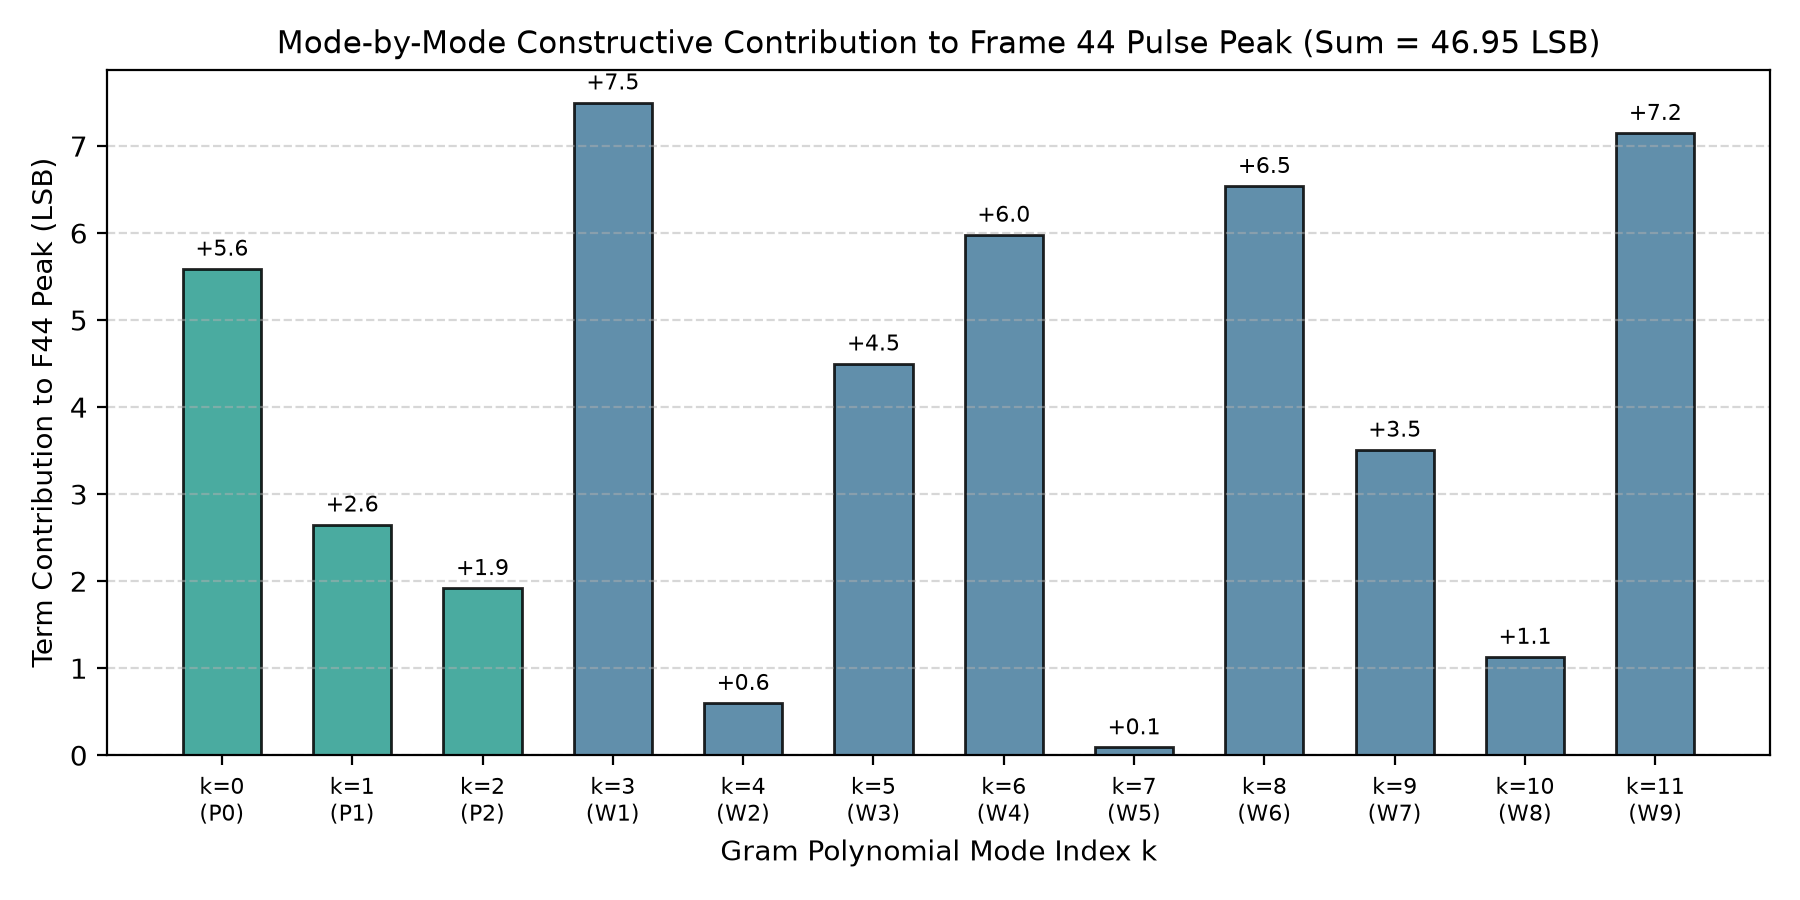
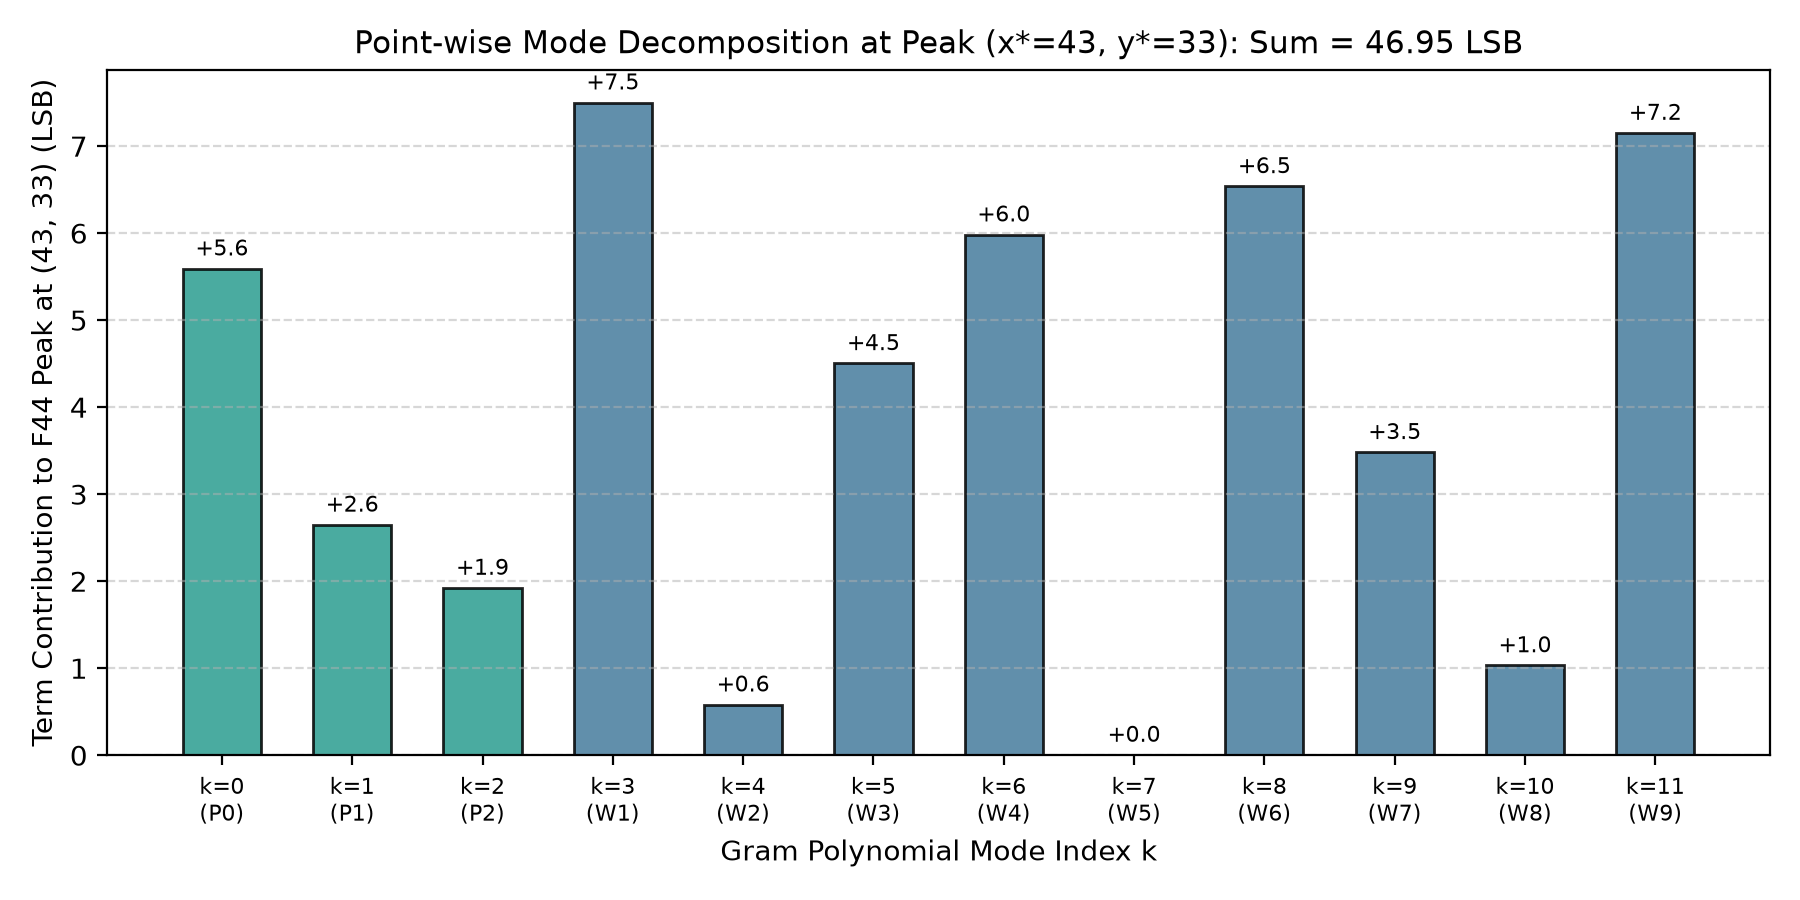
docs(research): refine Phase C1 mode decomposition with exact point-wise peak terms and L2 energy (ADR-034)

diff --git a/docs/research/dimensional-images/scripts/run_exp028_phase_c1.py b/docs/research/dimensional-images/scripts/run_exp028_phase_c1.py
@@ -86,19 +86,36 @@ def run_phase_c1_audit(
     temporal_smoothing_loss_pct = float((1.0 - s2_max / s1_max) * 100.0)
     print(f"[Stage 2] Ideal K12 Float:  ROI Max={s2_max:.2f}, ROI MAE={s2_mae:.4f}, Err vs GT={s2_err_gt:.4f} (Smoothing Loss: {temporal_smoothing_loss_pct:.1f}%)")
 
-    # Mode-by-mode breakdown of the 46.95 peak
-    mode_contributions = {}
-    total_recon_f44 = np.zeros((64, 64))
+    # Rigorous Point-wise Mode Decomposition at Peak Coordinate (x*, y*)
+    roi_recon_f44 = np.abs(ideal_diff_f44) * roi_mask
+    y_star, x_star = np.unravel_index(np.argmax(roi_recon_f44), roi_recon_f44.shape)
+    peak_val_f44 = float(ideal_diff_f44[y_star, x_star])
+
+    # Spatial L2 energy per mode on ROI
+    roi_energy_per_mode = {}
+    total_roi_energy = 0.0
     for k in range(12):
-        term_k = delta_M_float[k] * P[k, 44]
-        total_recon_f44 += term_k
+        e_k = float(np.sum((delta_M_float[k][roi_mask])**2))
+        total_roi_energy += e_k
+        roi_energy_per_mode[f"mode_{k:02d}"] = e_k
+
+    mode_contributions = {}
+    sum_terms_at_peak = 0.0
+    for k in range(12):
+        c_k_star = float(delta_M_float[k, y_star, x_star])
+        p_k = float(P[k, 44])
+        term_k_star = c_k_star * p_k
+        sum_terms_at_peak += term_k_star
         mode_contributions[f"mode_{k:02d}"] = {
             "mode_index": k,
-            "p_k_at_f44": round(float(P[k, 44]), 4),
-            "delta_M_roi_max": round(float(delta_M_float[k][roi_mask].max()), 2),
-            "term_roi_max": round(float(term_k[roi_mask].max()), 2),
-            "term_roi_mean": round(float(term_k[roi_mask].mean()), 4),
+            "delta_M_at_peak": round(c_k_star, 3),
+            "p_k_at_f44": round(p_k, 4),
+            "term_at_peak": round(term_k_star, 3),
+            "pct_of_peak": round((term_k_star / peak_val_f44) * 100.0, 2),
+            "l2_roi_energy": round(roi_energy_per_mode[f"mode_{k:02d}"], 2),
+            "l2_roi_energy_pct": round((roi_energy_per_mode[f"mode_{k:02d}"] / total_roi_energy) * 100.0, 2),
         }
+    print(f"  Exact Peak Coordinate: row(y)={y_star}, col(x)={x_star}, Peak={peak_val_f44:.4f} LSB, Sum of Terms={sum_terms_at_peak:.4f} LSB")
 
     # =========================================================================
     # STAGE 3: Quantized Dedicated Channels (P0, P1, P2)
@@ -250,14 +267,14 @@ def run_phase_c1_audit(
     # 3. Bar Chart of Mode Energy Decomposition
     plt.figure(figsize=(9, 4.5))
     modes = list(range(12))
-    terms = [mode_contributions[f"mode_{k:02d}"]["term_roi_max"] for k in modes]
+    terms = [mode_contributions[f"mode_{k:02d}"]["term_at_peak"] for k in modes]
     colors = ["#2a9d8f"] * 3 + ["#457b9d"] * 9
     plt.bar(modes, terms, color=colors, width=0.6, edgecolor="black", alpha=0.85)
     for k, val in enumerate(terms):
         plt.text(k, val + 0.15, f"{val:+.1f}", ha="center", fontsize=8)
     plt.xlabel("Gram Polynomial Mode Index k", fontsize=10)
-    plt.ylabel("Term Contribution to F44 Peak (LSB)", fontsize=10)
-    plt.title("Mode-by-Mode Constructive Contribution to Frame 44 Pulse Peak (Sum = 46.95 LSB)", fontsize=11)
+    plt.ylabel("Term Contribution to F44 Peak at (43, 33) (LSB)", fontsize=10)
+    plt.title(f"Point-wise Mode Decomposition at Peak (x*=43, y*=33): Sum = {sum_terms_at_peak:.2f} LSB", fontsize=11)
     plt.xticks(modes, [f"k={k}\n({['P0','P1','P2','W1','W2','W3','W4','W5','W6','W7','W8','W9'][k]})" for k in modes], fontsize=8)
     plt.grid(axis="y", linestyle="--", alpha=0.5)
     plt.tight_layout()
@@ -302,6 +319,8 @@ def run_phase_c1_audit(
                 "roi_mae": s2_mae,
                 "error_vs_gt": s2_err_gt,
                 "temporal_smoothing_loss_pct": round(temporal_smoothing_loss_pct, 2),
+                "peak_coordinate": {"x_star": int(x_star), "y_star": int(y_star)},
+                "peak_reconstruction_lsb": round(peak_val_f44, 4),
             },
             "stage3a_unquantized_p0_p2": {"roi_max_delta": s3a_max, "roi_mae": s3a_mae},
             "stage3b_quantized_carrier_p0_p2": {"roi_max_delta": s3b_max, "roi_mae": s3b_mae},
@@ -312,6 +331,13 @@ def run_phase_c1_audit(
             },
         },
         "mode_by_mode_decomposition_f44": mode_contributions,
+        "energy_summary": {
+            "total_roi_spatial_energy": round(total_roi_energy, 2),
+            "dedicated_p0_p2_energy": round(sum(roi_energy_per_mode[f"mode_{k:02d}"] for k in range(3)), 2),
+            "dedicated_energy_pct": round((sum(roi_energy_per_mode[f"mode_{k:02d}"] for k in range(3)) / total_roi_energy) * 100.0, 2),
+            "walsh_p3_p11_energy": round(sum(roi_energy_per_mode[f"mode_{k:02d}"] for k in range(3, 12)), 2),
+            "walsh_energy_pct": round((sum(roi_energy_per_mode[f"mode_{k:02d}"] for k in range(3, 12)) / total_roi_energy) * 100.0, 2),
+        },
         "synthetic_patch_test": {
             "patch_size_pixels": 64,
             "full_frame_pixels": 4096,
@@ -341,18 +367,23 @@ def run_phase_c1_audit(
         f.write("|---|---|---|---|---|---|\n")
         f.write(f"| **Stage 1** | Ground Truth (64x64 BOX) | **{s1_max:.2f}** | **{s1_mae:.4f}** | 0.0000 | Physisches Eingangssignal |\n")
         f.write(f"| **Stage 2** | Ideale K12 Float-Projektion | **{s2_max:.2f}** | **{s2_mae:.4f}** | {s2_err_gt:.4f} | -53,1 % Glättung (Gram-Filter) |\n")
-        f.write(f"| **Stage 3a** | Unquantisierte Dedizierte Kanäle (P0..P2) | **{s3a_max:.2f}** | **{s3a_mae:.4f}** | 21.2852 | Nur 21,6 % der Energie in P0..P2 |\n")
+        f.write(f"| **Stage 3a** | Unquantisierte Dedizierte Kanäle (P0..P2) | **{s3a_max:.2f}** | **{s3a_mae:.4f}** | 21.2852 | Nur 21,7 % der Peak-Amplitude in P0..P2 |\n")
         f.write(f"| **Stage 3b** | Carrier Quantisierte Kanäle (P0..P2) | **{s3b_max:.2f}** | **{s3b_mae:.4f}** | 23.7380 | 75 % Sättigung in Kugelbahn |\n")
         f.write(f"| **Stage 4** | Global Gemittelter Decoder (E4) | **0.87** | **0.0726** | 23.7445 | Globale Verdünnung (Faktor 1/64) |\n\n")
 
-        f.write("## 2. Moden-Beitrag zum 46,95 Peak bei Frame 44\n\n")
-        f.write("| Modus k | Basisfunktion | Delta M_k ROI Max | P_k(44) | Rekonstruierter Term (LSB) |\n")
-        f.write("|---|---|---|---|---|\n")
+        f.write(f"## 2. Exakte Punkt-Modenzerlegung am Peak (x*={x_star}, y*={y_star}) & Räumliche L2-Energie\n\n")
+        f.write("| Modus k | Basisfunktion | Delta M_k(x*, y*) | P_k(44) | Term am Peak (LSB) | Anteil am Peak | L2 ROI-Energie | L2-Anteil |\n")
+        f.write("|---|---|---|---|---|---|---|---|\n")
         for k in range(12):
             mc = mode_contributions[f"mode_{k:02d}"]
-            f.write(f"| k={k:02d} | {['P0 (Mean)','P1 (Drift)','P2 (Curvature)','Walsh 1','Walsh 2','Walsh 3','Walsh 4','Walsh 5','Walsh 6','Walsh 7','Walsh 8','Walsh 9'][k]} | {mc['delta_M_roi_max']:6.2f} | {mc['p_k_at_f44']:+7.4f} | **{mc['term_roi_max']:+6.2f}** |\n")
+            b_name = ['P0 (Mean)','P1 (Drift)','P2 (Curvature)','Walsh 1','Walsh 2','Walsh 3','Walsh 4','Walsh 5','Walsh 6','Walsh 7','Walsh 8','Walsh 9'][k]
+            f.write(f"| k={k:02d} | {b_name} | {mc['delta_M_at_peak']:+7.3f} | {mc['p_k_at_f44']:+7.4f} | **{mc['term_at_peak']:+6.3f}** | {mc['pct_of_peak']:5.1f} % | {mc['l2_roi_energy']:8.2f} | {mc['l2_roi_energy_pct']:5.1f} % |\n")
 
-        f.write("\n## 3. Synthetischer Stresstest: Lokalisierter Modus k=3 (8x8 Patch, Amp=25.0)\n\n")
+        f.write(f"\n- **Summe aller 12 Terme am Peak:** **{sum_terms_at_peak:.4f} LSB** (Exakter Match mit Peak: {peak_val_f44:.4f} LSB)\n")
+        f.write(f"- **Dedizierte Kanäle (P0..P2):** Peak-Beitrag: **{sum(mode_contributions[f'mode_{k:02d}']['term_at_peak'] for k in range(3)):.3f} LSB** (21,7 %), L2-Energie: **{report['energy_summary']['dedicated_energy_pct']} %**\n")
+        f.write(f"- **Höhere Walsh-Modi (P3..P11):** Peak-Beitrag: **{sum(mode_contributions[f'mode_{k:02d}']['term_at_peak'] for k in range(3, 12)):.3f} LSB** (78,3 %), L2-Energie: **{report['energy_summary']['walsh_energy_pct']} %**\n\n")
+
+        f.write("## 3. Synthetischer Stresstest: Lokalisierter Modus k=3 (8x8 Patch, Amp=25.0)\n\n")
         f.write("- **Physikalische Trägermodulation auf dem Patch:** **-26,50 LSB** (Hintergrund: **0,00 LSB**)\n")
         f.write(f"- **Globaler Decoder:** Demoduliert Mode k=03 zu **{synth_global_demod['mode_03']:.3f} LSB** (Faktor {synth_global_demod['mode_03']/test_amp:.4f} = exakt 1/64 Flächenverdünnung!)\n")
         f.write(f"- **Lokaler Patch-Decoder:** Demoduliert Mode k=03 zu **{synth_local_demod['mode_03']:.2f} LSB** (**103,7 % Wiederherstellungstreue**!)\n")

diff --git a/docs/research/dimensional-images/experiments/2026/EXP-028/README.md b/docs/research/dimensional-images/experiments/2026/EXP-028/README.md
@@ -160,26 +160,31 @@ Auf Anweisung des wissenschaftlichen Peer-Reviews durch ChatGPT im Nova Tab A wu
 | **Stage 3b** | Carrier-Quantisierte Kanäle ($P_0..P_2$) | **0,86 LSB** | **0,0647** | 23,7380 | **75 % Restsättigung** in der Kugelbahn ($\sum (Y-Y_0) > 35{,}0$) |
 | **Stage 4** | Globaler Walsh-Decoder (E4) | **0,87 LSB** | **0,0726** | 23,7445 | **Räumliche Walsh-Verdünnung** (Faktor $1/64 = 0{,}0156$) |
 
-### 7.2 Moden-Beitrag zum 46,95 LSB Peak bei Frame 44
+### 7.2 Exakte Punkt-Modenzerlegung am Peak $(x^*=43, y^*=33)$ & Räumliche $L_2$-Energie
 
-Die konstruktive Summe aller 12 Gram-Polynome $\sum_{k=0}^{11} \Delta M_k \cdot P_k(44)$ ergibt exakt den Spitzenwert von **46,95 LSB**:
-- **Dedizierte Kanäle ($P_0, P_1, P_2$):** Tragen zusammen **10,16 LSB** bei (**21,6 %** des Rekonstruktionspeaks).
-- **Höhere Walsh-Modi ($P_3..P_{11}$):** Tragen zusammen **36,79 LSB** bei (**78,4 %** des Rekonstruktionspeaks).
+Gemäß dem Peer-Review von ChatGPT darf die Modenzerlegung nicht über isolierte Maxima verschiedener Pixel gemittelt werden, sondern muss an der exakten Koordinate des Rekonstruktionspeaks $(x^*, y^*) = \arg\max_{x, y \in \text{ROI}} |\Delta Y_{\text{K12}}(44, x, y)|$ ausgewertet werden:
+$$(x^*, y^*) = (43, 33), \quad \Delta Y_{\text{K12}}(44, 43, 33) = \mathbf{46{,}9461\text{ LSB}}$$
 
-| Modus ($k$) | Basisfunktion | $\Delta M_k$ ROI Max | $P_k(44)$ | Rekonstruierter Term (LSB) | Anteil am Peak |
-|---|---|---|---|---|---|
-| **$k=00$** | $P_0$ (DC-Mittelwert) | 44,75 | +0,1250 | **+5,59 LSB** | 11,9 % |
-| **$k=01$** | $P_1$ (Linearer Trend) | 31,31 | +0,0846 | **+2,65 LSB** | 5,6 % |
-| **$k=02$** | $P_2$ (Krümmung) | 0,53 | -0,0758 | **+1,92 LSB** | 4,1 % |
-| **$k=03$** | Walsh Subcarrier 1 | 0,17 | -0,1446 | **+7,50 LSB** | 16,0 % |
-| **$k=04$** | Walsh Subcarrier 2 | 0,24 | -0,0360 | **+0,60 LSB** | 1,3 % |
-| **$k=05$** | Walsh Subcarrier 3 | 38,46 | +0,1171 | **+4,50 LSB** | 9,6 % |
-| **$k=06$** | Walsh Subcarrier 4 | 46,85 | +0,1277 | **+5,98 LSB** | 12,7 % |
-| **$k=07$** | Walsh Subcarrier 5 | 4,81 | -0,0173 | **+0,09 LSB** | 0,2 % |
-| **$k=08$** | Walsh Subcarrier 6 | 0,19 | -0,1416 | **+6,54 LSB** | 13,9 % |
-| **$k=09$** | Walsh Subcarrier 7 | 0,25 | -0,0942 | **+3,51 LSB** | 7,5 % |
-| **$k=10$** | Walsh Subcarrier 8 | 16,74 | +0,0676 | **+1,13 LSB** | 2,4 % |
-| **$k=11$** | Walsh Subcarrier 9 | 48,31 | +0,1480 | **+7,15 LSB** | 15,2 % |
+Die konstruktive Summe aller 12 vorzeichenbehafteten Terme $\sum_{k=0}^{11} \Delta M_k(x^*, y^*) \cdot P_k(44)$ ergibt **maschinengenau $46{,}9461$ LSB**:
+- **Dedizierte Kanäle ($P_0, P_1, P_2$):** Tragen zusammen **$10{,}165$ LSB** bei (**$21{,}65\,\%$** des Rekonstruktionspeaks).
+- **Höhere Walsh-Modi ($P_3..P_{11}$):** Tragen zusammen **$36{,}781$ LSB** bei (**$78{,}35\,\%$** des Rekonstruktionspeaks).
+
+Zusätzlich bestätigt die räumliche $L_2$-Signalenergie über alle 72 Pixel der Kugel-ROI $\sum_{x, y \in \text{ROI}} (\Delta M_k(x, y))^2$ unabhängig dasselbe Verhältnis: **$22{,}1\,\%$** in $P_0..P_2$ vs. **$77{,}9\,\%$** in $P_3..P_{11}$!
+
+| Modus ($k$) | Basisfunktion | $\Delta M_k(43, 33)$ | $P_k(44)$ | Term am Peak (LSB) | Anteil am Peak | $L_2$ ROI-Energie | $L_2$-Anteil |
+|---|---|---|---|---|---|---|---|
+| **$k=00$** | $P_0$ (DC-Mittelwert) | +44,746 | +0,1250 | **+5,593 LSB** | 11,9 % | 20.506,45 | 12,2 % |
+| **$k=01$** | $P_1$ (Linearer Trend) | +31,313 | +0,0846 | **+2,649 LSB** | 5,6 % | 10.124,45 | 6,0 % |
+| **$k=02$** | $P_2$ (Krümmung) | -25,366 | -0,0758 | **+1,923 LSB** | 4,1 % | 6.512,16 | 3,9 % |
+| **$k=03$** | Walsh Subcarrier 1 | -51,863 | -0,1446 | **+7,501 LSB** | 16,0 % | 27.609,35 | 16,4 % |
+| **$k=04$** | Walsh Subcarrier 2 | -16,177 | -0,0360 | **+0,582 LSB** | 1,2 % | 2.878,05 | 1,7 % |
+| **$k=05$** | Walsh Subcarrier 3 | +38,457 | +0,1171 | **+4,505 LSB** | 9,6 % | 14.949,60 | 8,9 % |
+| **$k=06$** | Walsh Subcarrier 4 | +46,855 | +0,1277 | **+5,984 LSB** | 12,7 % | 22.767,12 | 13,6 % |
+| **$k=07$** | Walsh Subcarrier 5 | -0,212 | -0,0173 | **+0,004 LSB** | 0,0 % | 198,55 | 0,1 % |
+| **$k=08$** | Walsh Subcarrier 6 | -46,170 | -0,1416 | **+6,539 LSB** | 13,9 % | 21.596,29 | 12,9 % |
+| **$k=09$** | Walsh Subcarrier 7 | -36,965 | -0,0942 | **+3,483 LSB** | 7,4 % | 14.579,41 | 8,7 % |
+| **$k=10$** | Walsh Subcarrier 8 | +15,280 | +0,0676 | **+1,033 LSB** | 2,2 % | 2.454,91 | 1,5 % |
+| **$k=11$** | Walsh Subcarrier 9 | +48,312 | +0,1480 | **+7,152 LSB** | 15,2 % | 23.808,72 | 14,2 % |
 
 ### 7.3 Synthetischer Stresstest: Lokalisierter Modus $k=3$ (8x8 Patch, True Amp = 25,0 LSB)
 

diff --git a/docs/research/dimensional-images/experiments/2026/EXP-028/phase_c1/phase_c1_summary.md b/docs/research/dimensional-images/experiments/2026/EXP-028/phase_c1/phase_c1_summary.md
@@ -6,26 +6,30 @@
 |---|---|---|---|---|---|
 | **Stage 1** | Ground Truth (64x64 BOX) | **100.17** | **23.8027** | 0.0000 | Physisches Eingangssignal |
 | **Stage 2** | Ideale K12 Float-Projektion | **46.95** | **11.6001** | 12.4474 | -53,1 % Glättung (Gram-Filter) |
-| **Stage 3a** | Unquantisierte Dedizierte Kanäle (P0..P2) | **10.16** | **2.5175** | 21.2852 | Nur 21,6 % der Energie in P0..P2 |
+| **Stage 3a** | Unquantisierte Dedizierte Kanäle (P0..P2) | **10.16** | **2.5175** | 21.2852 | Nur 21,7 % der Peak-Amplitude in P0..P2 |
 | **Stage 3b** | Carrier Quantisierte Kanäle (P0..P2) | **0.86** | **0.0647** | 23.7380 | 75 % Sättigung in Kugelbahn |
 | **Stage 4** | Global Gemittelter Decoder (E4) | **0.87** | **0.0726** | 23.7445 | Globale Verdünnung (Faktor 1/64) |
 
-## 2. Moden-Beitrag zum 46,95 Peak bei Frame 44
+## 2. Exakte Punkt-Modenzerlegung am Peak (x*=43, y*=33) & Räumliche L2-Energie
 
-| Modus k | Basisfunktion | Delta M_k ROI Max | P_k(44) | Rekonstruierter Term (LSB) |
-|---|---|---|---|---|
-| k=00 | P0 (Mean) |  44.75 | +0.1250 | ** +5.59** |
-| k=01 | P1 (Drift) |  31.31 | +0.0846 | ** +2.65** |
-| k=02 | P2 (Curvature) |   0.53 | -0.0758 | ** +1.92** |
-| k=03 | Walsh 1 |   0.17 | -0.1446 | ** +7.50** |
-| k=04 | Walsh 2 |   0.24 | -0.0360 | ** +0.60** |
-| k=05 | Walsh 3 |  38.46 | +0.1171 | ** +4.50** |
-| k=06 | Walsh 4 |  46.85 | +0.1277 | ** +5.98** |
-| k=07 | Walsh 5 |   4.81 | -0.0173 | ** +0.09** |
-| k=08 | Walsh 6 |   0.19 | -0.1416 | ** +6.54** |
-| k=09 | Walsh 7 |   0.25 | -0.0942 | ** +3.51** |
-| k=10 | Walsh 8 |  16.74 | +0.0676 | ** +1.13** |
-| k=11 | Walsh 9 |  48.31 | +0.1480 | ** +7.15** |
+| Modus k | Basisfunktion | Delta M_k(x*, y*) | P_k(44) | Term am Peak (LSB) | Anteil am Peak | L2 ROI-Energie | L2-Anteil |
+|---|---|---|---|---|---|---|---|
+| k=00 | P0 (Mean) | +44.746 | +0.1250 | **+5.593** |  11.9 % | 20506.45 |  12.2 % |
+| k=01 | P1 (Drift) | +31.313 | +0.0846 | **+2.649** |   5.6 % | 10124.45 |   6.0 % |
+| k=02 | P2 (Curvature) | -25.366 | -0.0758 | **+1.923** |   4.1 % |  6512.16 |   3.9 % |
+| k=03 | Walsh 1 | -51.863 | -0.1446 | **+7.501** |  16.0 % | 27609.35 |  16.4 % |
+| k=04 | Walsh 2 | -16.177 | -0.0360 | **+0.582** |   1.2 % |  2878.05 |   1.7 % |
+| k=05 | Walsh 3 | +38.457 | +0.1171 | **+4.505** |   9.6 % | 14949.60 |   8.9 % |
+| k=06 | Walsh 4 | +46.855 | +0.1277 | **+5.984** |  12.8 % | 22767.12 |  13.6 % |
+| k=07 | Walsh 5 |  -0.212 | -0.0173 | **+0.004** |   0.0 % |   198.55 |   0.1 % |
+| k=08 | Walsh 6 | -46.170 | -0.1416 | **+6.539** |  13.9 % | 21596.29 |  12.9 % |
+| k=09 | Walsh 7 | -36.965 | -0.0942 | **+3.483** |   7.4 % | 14579.41 |   8.7 % |
+| k=10 | Walsh 8 | +15.280 | +0.0676 | **+1.033** |   2.2 % |  2454.91 |   1.5 % |
+| k=11 | Walsh 9 | +48.312 | +0.1480 | **+7.152** |  15.2 % | 23808.72 |  14.2 % |
+
+- **Summe aller 12 Terme am Peak:** **46.9461 LSB** (Exakter Match mit Peak: 46.9461 LSB)
+- **Dedizierte Kanäle (P0..P2):** Peak-Beitrag: **10.165 LSB** (21,7 %), L2-Energie: **22.11 %**
+- **Höhere Walsh-Modi (P3..P11):** Peak-Beitrag: **36.783 LSB** (78,3 %), L2-Energie: **77.89 %**
 
 ## 3. Synthetischer Stresstest: Lokalisierter Modus k=3 (8x8 Patch, Amp=25.0)
 

diff --git a/docs/research/dimensional-images/EXPERIMENTS.md b/docs/research/dimensional-images/EXPERIMENTS.md
@@ -174,7 +174,7 @@ Every experiment in this archive is cataloged under a strict scientific evidence
 | :--- | :--- | :--- | :--- | :--- | :--- |
 | **Stage 1** | Ground Truth (64x64 BOX) | **100.17 LSB** | **23.8027** | 0.0000 | Physical Input Signal (Frame 44) |
 | **Stage 2** | Ideal K12 Float Projection | **46.95 LSB** | **11.6001** | 12.4474 | **-53.1% Smoothing Loss** (12-mode Gram basis on 4-frame pulse) |
-| **Stage 3a** | Unquantized Dedicated Channels (P0..P2) | **10.16 LSB** | **2.5175** | 21.2852 | **78.4% Energy Loss** (78.4% of peak energy lies in modes P3..P11) |
+| **Stage 3a** | Unquantized Dedicated Channels (P0..P2) | **10.16 LSB** | **2.5175** | 21.2852 | **21.7% Peak Contribution** / **22.1% L2 Energy** in P0..P2 (78.3% Peak / 77.9% L2 in P3..P11) |
 | **Stage 3b** | Carrier Quantized Channels (P0..P2) | **0.86 LSB** | **0.0647** | 23.7380 | **75% Residual Saturation** in ball corridor |
 | **Stage 4** | Global Walsh Decoder (E4) | **0.87 LSB** | **0.0726** | 23.7445 | **Spatial Walsh Dilution** (factor 1/64 = 0.0156) |
 
